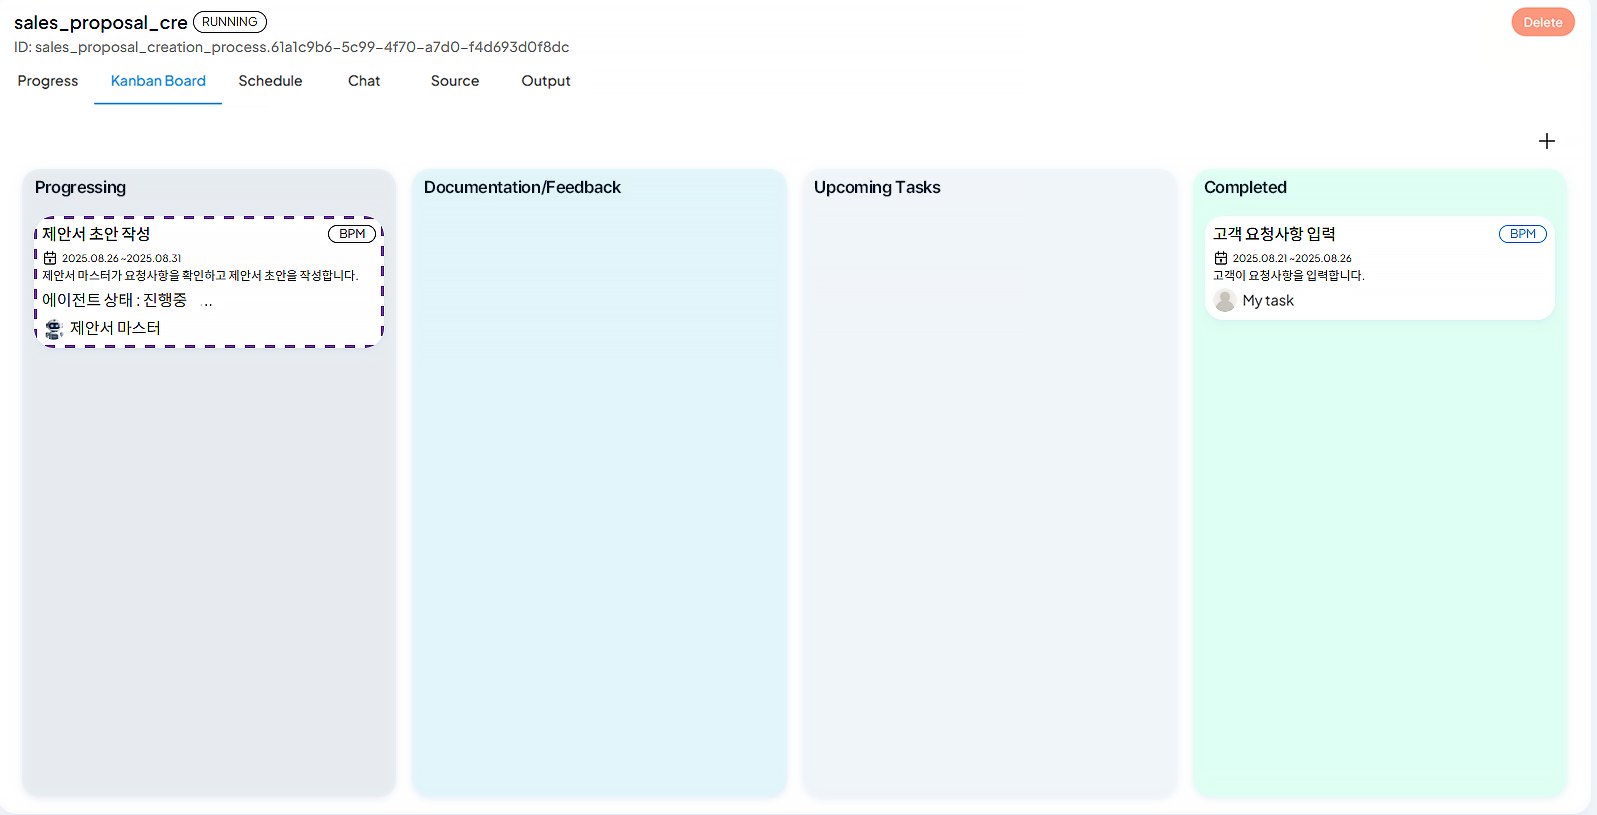
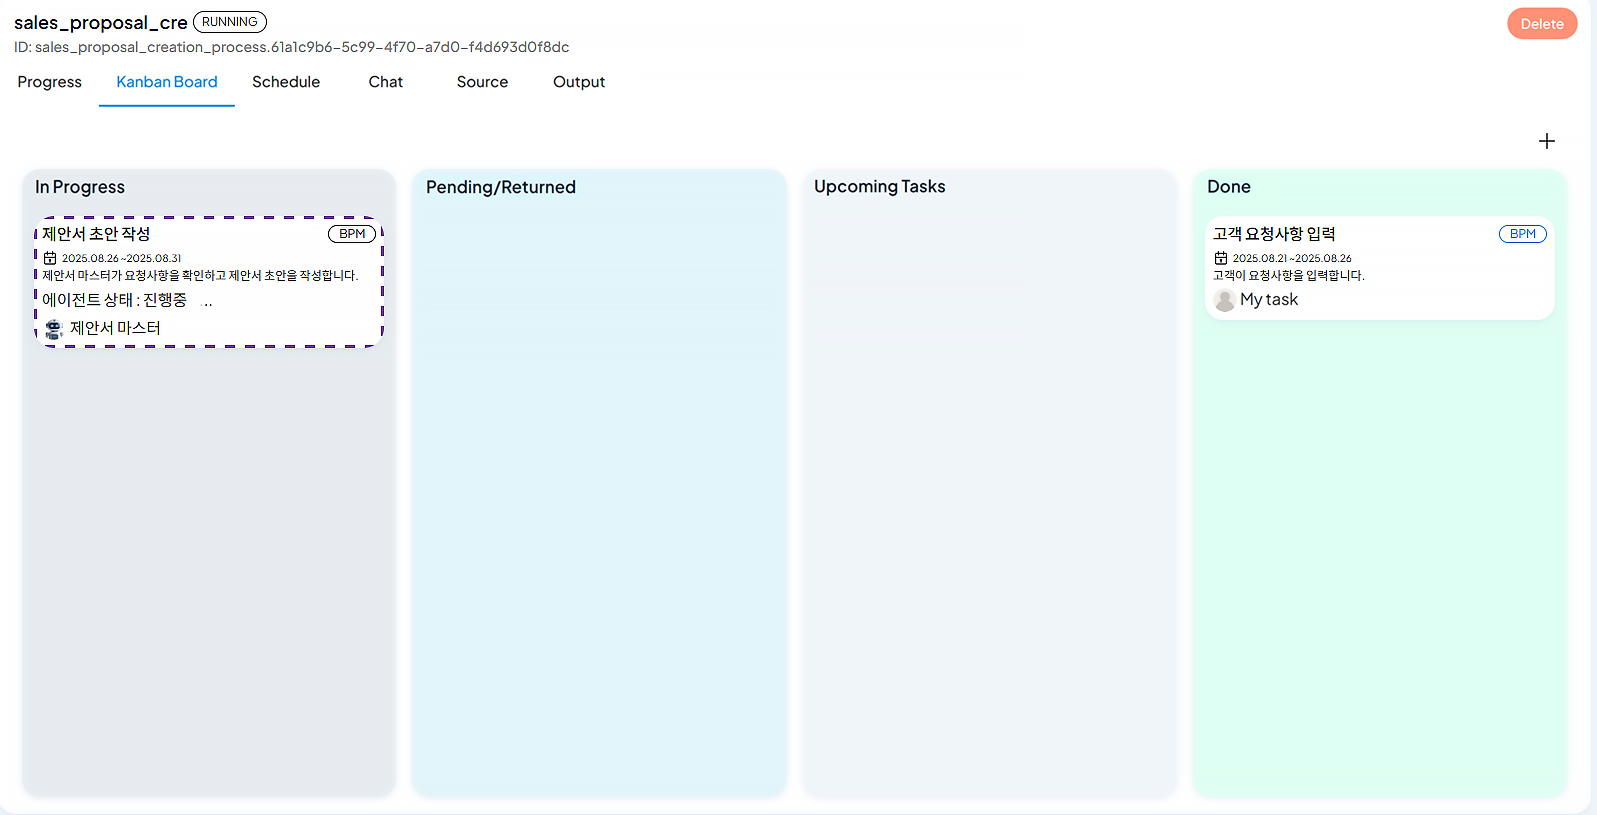
이미지 교체 및 이미지영문화

diff --git a/content/en/tutorial/tutorial-lv3.md b/content/en/tutorial/tutorial-lv3.md
@@ -17,23 +17,23 @@ In the left definition management, select the process created in Lv2 and click t
 
 1. Click 'Create Exclusive Gateway' on the top icon and add it to the process.
 
-![](../../../uengine-image/process-gpt/tutorial/lv3-1.png)
+![](../../../uengine-image/process-gpt/en/tutorial/lv3-1.png)
 <br>
 
 2. After adding, click the lane and enter a description like 'There are some supplements'. If the sales team manager reviews the draft and there are supplements, instruct the agent to rewrite, and if there are none, submit it to the customer.
 
-![](../../../uengine-image/process-gpt/tutorial/lv3-2.png)
+![](../../../uengine-image/process-gpt/en/tutorial/lv3-2.png)
 
 ### Form Modification
 
 1. Set up a checkpoint in the proposal draft work item to allow the created agent to automatically perform simple repetitive review such as checking for typos, missing attachments, and missing customer requests.
 
-![](../../../uengine-image/process-gpt/tutorial/lv3-3.png)
+![](../../../uengine-image/process-gpt/en/tutorial/lv3-3.png)
 <br>
 
 2. You can write the proposal in a slide format.
 
-![](../../../uengine-image/process-gpt/tutorial/lv3-4.png)
+![](../../../uengine-image/process-gpt/en/tutorial/lv3-4.png)
 <br>
 
 
@@ -41,12 +41,12 @@ In the left definition management, select the process created in Lv2 and click t
 
 1. When you execute the process and enter the customer's request, the agent will start writing the proposal draft.
 
-![](../../../uengine-image/process-gpt/tutorial/lv3-5.png)
+![](../../../uengine-image/process-gpt/en/tutorial/lv3-5.png)
 <br>
 
 2. The proposal draft written by the agent can be checked in a slide format, and simple review such as typos, missing attachments, and missing customer requests is performed by the agent as set in the form.
 
-![](../../../uengine-image/process-gpt/tutorial/lv3-6.png)
+![](../../../uengine-image/process-gpt/en/tutorial/lv3-6.png)
 <br>
 
 
@@ -54,12 +54,12 @@ In the left definition management, select the process created in Lv2 and click t
 
 1. The sales team manager instructs the agent to add content such as free shipping and one-year free A/S to the customer company.
 
-![](../../../uengine-image/process-gpt/tutorial/lv3-7.png)
+![](../../../uengine-image/process-gpt/en/tutorial/lv3-7.png)
 <br>
 
 2. The agent modifies the proposal slide to reflect the sales team manager's supplement.
 
-![](../../../uengine-image/process-gpt/tutorial/lv3-8.png)
+![](../../../uengine-image/process-gpt/en/tutorial/lv3-8.png)
 <br>
 
 3. The sales team manager reviews the supplemented proposal and, if there are no supplements, terminates the process by submitting the proposal to the customer.
